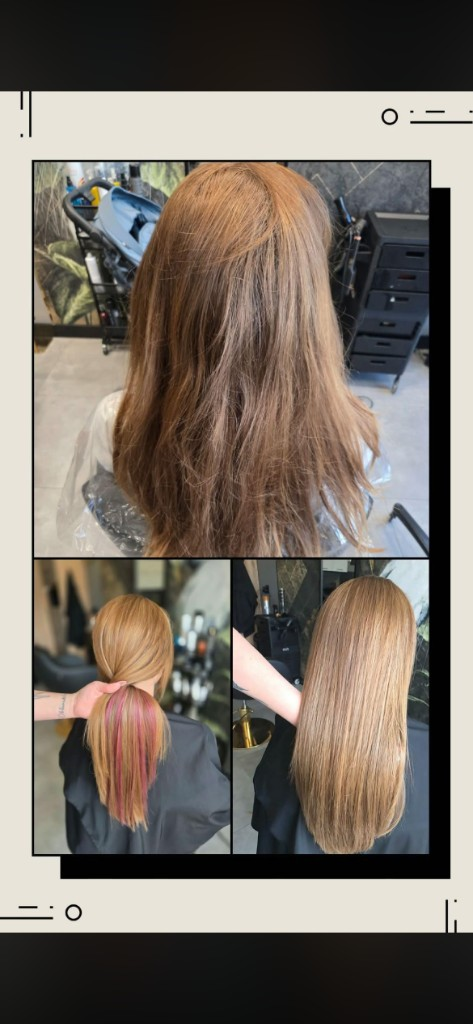
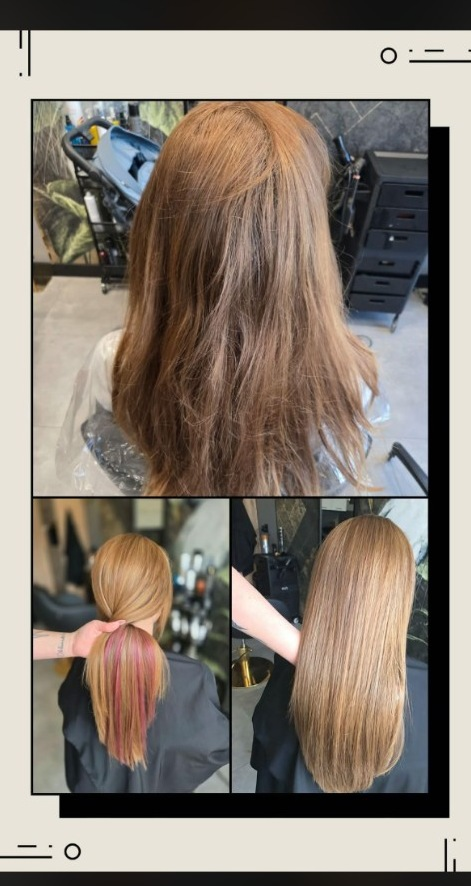
Remove black bars and frames around the gallery photos.

diff --git a/styles.css b/styles.css
@@ -276,7 +276,7 @@ p:last-child {
   object-position: center center;
   border-radius: 28px 8px 28px 8px;
   box-shadow: var(--shadow);
-  background: #000;
+  background: var(--paper);
 }
 
 .hero-photo figcaption {
@@ -337,7 +337,7 @@ p:last-child {
   object-fit: cover;
   object-position: center center;
   border-radius: 8px 28px 8px 28px;
-  background: #000;
+  background: var(--paper);
 }
 
 .about h2,
@@ -494,13 +494,14 @@ p:last-child {
 }
 
 .gallery-item {
-  padding: 0.4rem;
-  border: 1px solid var(--line);
-  background: var(--paper);
+  padding: 0;
+  border: 0;
+  background: transparent;
   cursor: zoom-in;
-  overflow: hidden;
+  overflow: visible;
   border-radius: 14px;
   justify-self: stretch;
+  box-shadow: none;
 }
 
 .gallery-item img {
@@ -811,7 +812,7 @@ p:last-child {
   }
 
   .gallery-item {
-    padding: 0.35rem;
+    padding: 0;
   }
 
   .about,
